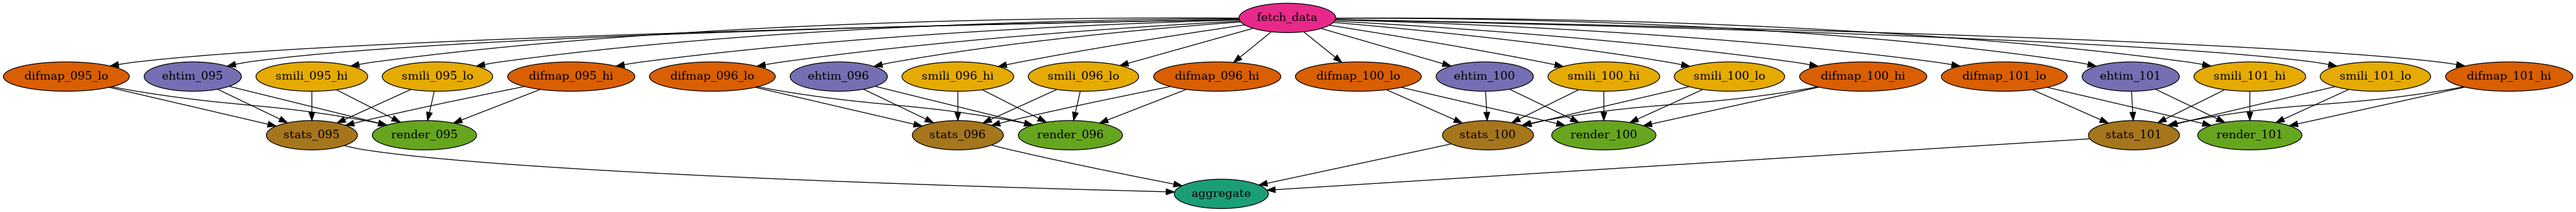
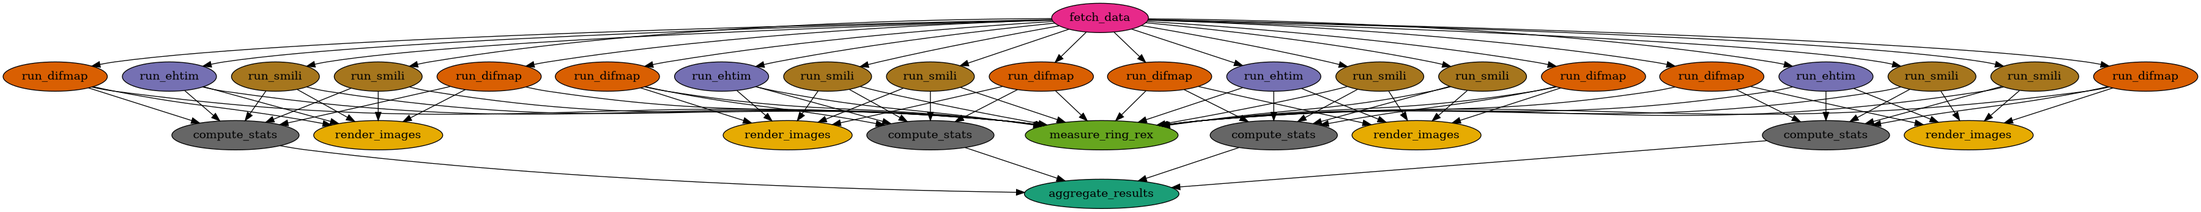
Add Apache 2.0 license and bring documentation up to date
- LICENSE: Apache-2.0 for project-written code; README notes the vendored
  eht-pipelines/ remain GPLv3 per their headers (PROVENANCE.md)
- README: DAG image, no-Docker-Hub deploy path (deploy_pegasus.sh),
  license section
- workflow.png: regenerated from the campaign DAG (includes
  measure_ring_rex)
- generator docstring: document the REx measurement step

diff --git a/workflow_generator.py b/workflow_generator.py
@@ -17,6 +17,8 @@ CLAUDE.md). The workflow:
 3. Renders a per-day PNG panel of all reconstructed images
 4. Computes closure chi^2 statistics (cphase, logcamp) per image vs the data
 5. Aggregates everything into a CSV table and markdown report
+6. Measures ring diameter/width/orientation/asymmetry of every image with
+   REx (ehtim.features.rex, the EHT's own extractor) into ring_rex.csv
 
 Usage:
     ./workflow_generator.py --output workflow.yml

diff --git a/README.md b/README.md
@@ -27,6 +27,8 @@ verbatim in `eht-pipelines/` (pinned commit — see
 `eht-pipelines/PROVENANCE.md`). Everything else (`bin/`, `Docker/`) is
 written for this project.
 
+![Workflow DAG](workflow.png)
+
 ## Prerequisites
 
 - Pegasus WMS + HTCondor (or a Kiso-provisioned site)
@@ -41,6 +43,10 @@ docker build -t kthare10/eht-rex:latest    -f Docker/Rex_Dockerfile .
 docker push kthare10/eht-difmap:latest kthare10/eht-ehtim:latest \
             kthare10/eht-smili:latest  kthare10/eht-rex:latest
 ```
+
+On a submit host without a Docker Hub login, `./deploy_pegasus.sh` instead
+converts locally built images to `.sif` files (`containers/`), generates the
+workflow with `--sif-dir`, and submits it.
 
 ## Usage
 
@@ -86,3 +92,11 @@ container digests are archived under `results5/`. Repeat it with
 
 `./run_manual.sh` runs fetch + eht-imaging + render + stats for one day
 without Pegasus (inside the ehtim container or a matching venv).
+
+## License
+
+Apache License 2.0 (see `LICENSE`) for everything written for this project
+(`workflow_generator.py`, `bin/`, `Docker/`, scripts, documentation).
+The vendored EHT pipeline files in `eht-pipelines/` are the EHT
+Collaboration's own and remain under **GPLv3** per their headers
+(see `eht-pipelines/PROVENANCE.md`).
